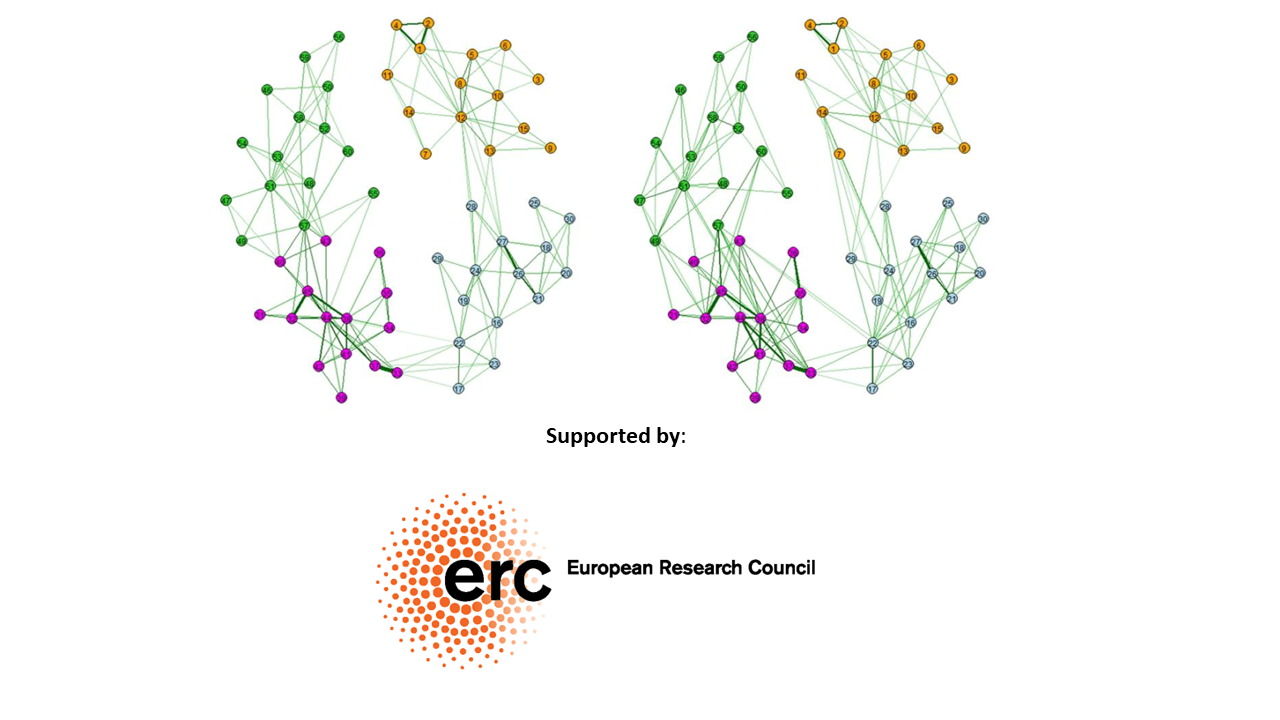
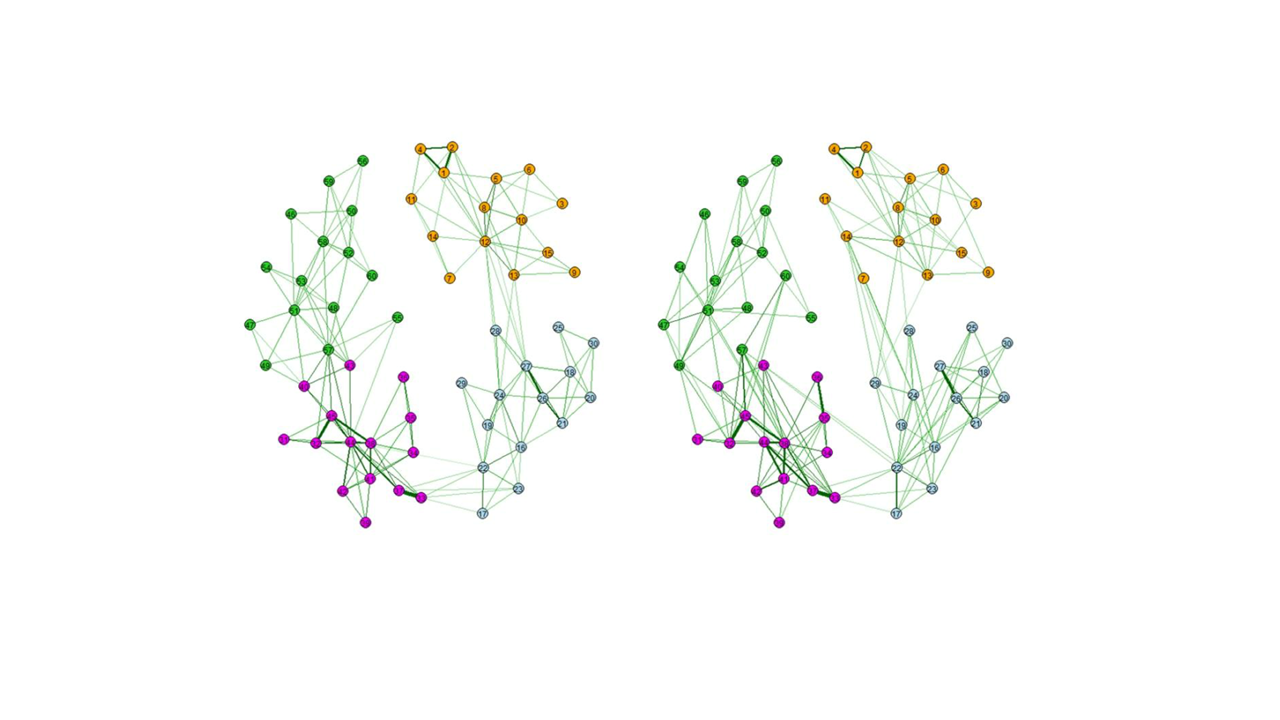
update images on homepage

Changed region(s): [[0.1562, 0.0306, 0.8125, 0.9167]]

diff --git a/content/home/erc.htm b/content/home/erc.htm
@@ -1,0 +1,299 @@
+<!DOCTYPE html>
+<html lang="en-US">
+    <head>
+    <title>ERC Consolidator grant for Reinier Boon</title>
+    <meta http-equiv="Content-Style-Type" content="text/css" />
+    <meta charset="utf-8">
+    <meta name="viewport" content="width=device-width, initial-scale=1">
+    <meta http-equiv="X-UA-Compatible" content="IE=edge">
+    <meta name="research_institute" content="Amsterdam Cardiovascular Sciences" />
+    <meta name="versionid" content="13367" />
+            <meta name="title_no_special_characters" content="ercconsolidatorgrantforreinierboon" />
+            <meta name="html_title_no_special_characters" content="ercconsolidatorgrantforreinierboon" />
+        <meta name="titleletter" content="E" />
+                    <meta name="dossier" content="prijs en geld" />
+    <meta name="publicationdate" content="2020-12-09T15:23:00Z" />
+<meta name="content_last_modified_date" content="2023-01-09T11:34:22Z" />
+    <!--
+        Powered by GX
+        GX Software
+        Nijmegen
+        http://www.gxsoftware.com/
+    -->
+    <meta name="title" content="ERC Consolidator grant for Reinier Boon" />
+<meta property="og:title" content="ERC Consolidator grant for Reinier Boon" />
+            <meta name="description" content="Amsterdam UMC Research Stories: Together we discover the healthcare of tomorrow." />
+            <meta property="og:description" content="Amsterdam UMC Research Stories: Together we discover the healthcare of tomorrow." />
+            <meta name="keywords" content="Research" />
+<meta name="image" content="https://www.amsterdamumc.org/upload_mm/f/8/4/cid13367_ERC.png" />
+<meta property="og:image" content="https://www.amsterdamumc.org/upload_mm/c/f/e/cid13367_ERC_1200x628.png" />
+<meta property="og:image:url" content="https://www.amsterdamumc.org/upload_mm/c/f/e/cid13367_ERC_1200x628.png" />
+<meta name="twitter:card" content="summary_large_image" />
+<meta name="twitter:site" content="@amsterdamumc" />
+<meta name="twitter:image" content="https://www.amsterdamumc.org/upload_mm/c/f/e/cid13367_ERC_1200x628.png" />
+<meta name="url" content="https://www.amsterdamumc.org/en/research/news/erc-consolidator-grant-for-reinier-boon.htm" />
+<meta property="og:url" content="https://www.amsterdamumc.org/en/research/news/erc-consolidator-grant-for-reinier-boon.htm" />
+<meta name="locale" content="en_US" />
+<meta property="og:locale" content="en_US" />
+    <meta name="generator" content="GX WebManager 9" />
+    <meta http-equiv="content-type" content="application/xhtml+xml;charset=utf-8" />
+    <meta http-equiv="content-language" content="en-US" />
+    <link size="16x16" rel="icon" type="image/png" href="/static/researchpresentation/images/favicon-16x16.png" />
+    <link size="32x32" rel="icon" type="image/png" href="/static/researchpresentation/images/favicon-32x32.png" />
+    <link rel="apple-touch-icon" type="image/png" href="/static/researchpresentation/images/apple-touch-icon.png" />
+    <link rel="canonical" href="https://www.amsterdamumc.org/en/research/institutes/amsterdam-cardiovascular-sciences/news/erc-consolidator-grant-for-reinier-boon.htm" />
+    <meta charset="utf-8"> <meta name="viewport" content="width=device-width, initial-scale=1.0, minimum-scale=1.0, maximum-scale=5.0">
+    <!-- Start FreeStyle -->
+    <!--  FreeStyle -->
+			    <link integrity="sha384-lIZrIo/lWpyELiMXw+WwcwvEYha8emxmZb+pjiOytxb4/e9gOfr7uuVIQcCHmY8w" crossorigin="anonymous" rel="stylesheet" type="text/css" href="/static/design/B30ACE0B-1950-4EF7-8312-58F9FA90FC7E-78D0-fsm/rel/stylesheet/general.css" />
+    <link integrity="sha384-VxXxYzFSAefoxXIhFaoKv465oo5XqIvqjcAAltaTMHPc6TkgiAMpQOJfCL6MWLTQ" crossorigin="anonymous" rel="stylesheet" type="text/css" href="/static/design/BBC18E55-1665-4AE8-BB30-44CB13D8063E-7402-fsm/rel/stylesheet/general.css" />
+    <!-- End FreeStyle -->
+            <script type="text/javascript" src="/static/researchpresentation/javascript/jquery-3.5.1.min.js"></script>
+        <script type="text/javascript" src="/static/researchpresentation/javascript/jquery-ui-1.13.2.min.js"></script>
+    <script type="text/javascript" src="/static/researchpresentation/javascript/amsterdamumc-1.20.0.js"></script>
+    <!-- Global site tag (gtag.js) - Google Analytics -->
+    <script async src="https://www.googletagmanager.com/gtag/js?id=UA-85366043-2"></script>
+    <script>
+        window.dataLayer = window.dataLayer || [];
+        function gtag() {
+            dataLayer.push(arguments);
+        }
+        gtag('js', new Date());
+        gtag('config', 'UA-85366043-2');
+    </script>
+</head>
+    <body >        
+        <!-- indexer: off -->
+        <div class="skiplinks">
+    <a href="#main" class="umc-button primary">Skip to content</a>
+</div>
+        <header>
+            <div id="menu-section" class="menu-section">
+    <div class="column-section menu">
+            <div class="column">
+                <button id="header-menu" class="menu-toggle">
+                    <span class="menu-toggle__label menu-toggle__label--menu">
+                        <span class="label--open">Menu</span>
+                        <span class="label--close">Menu</span>
+                    </span>
+                </button>
+                    <div class="menu-toggle menu-toggle--pillar">
+                        <span class="menu-toggle__switch-text--tablet-portrait">Research</span>
+                        <span class="menu-toggle__switch-text">Research</span>
+                    </div>
+            </div>
+            <div class="column">
+                <div class="umc-logo">
+                    <a href="https://www.amsterdamumc.org/en/research.htm">
+                        <img src="/static/researchpresentation/images/logo-amsterdamumc-english.svg" alt="Amsterdam UMC" />
+                    </a>
+                </div>
+            </div>
+            <div class="column">
+                
+                    <button id="header-search" class="menu-toggle">
+                        <span class="menu-toggle__label menu-toggle__label--search">
+                            <span class="label--open">Search</span>
+                            <span class="label--close">Search</span>
+                        </span>
+                    </button>
+            </div>
+    </div>
+    <div><nav class="section menu-navigation menu--closed menu-navigation--pillar">
+    <div class="column-section menu-navigation__title">
+        <h3>Amsterdam UMC Research</h3>
+    </div>
+    <div class="column-section menu-navigation__navigation">
+        <div class="column navigation navigation--double">
+			<ul><li><a href="/en/research/researchers.htm" class="" title="Researchers" data-wm-linkcode="C105">Connect with Researchers</a></li><li><a href="/en/research/highlights.htm" class="" title="Our research highlights" data-wm-linkcode="C106">Discover Research Highlights</a></li><li><a href="/en/research/core-facility.htm" class="" title="Core facilities" data-wm-linkcode="C107">Explore Core Facilities</a></li><li><a href="/en/research/institutes.htm" class="" title="Our research institutes" data-wm-linkcode="C108">Research Institutes</a></li><li><a href="/en/research/research-roadmap.htm" class="" title="Research Roadmap" data-wm-linkcode="C279">Research Roadmap</a></li><li><a href="/en/research/support.htm" class="" title="Research Support" data-wm-linkcode="C109">Our Research Support</a></li><li><a href="/en/research/organization.htm" class="" title="About Amsterdam UMC research" data-wm-linkcode="C110">About Amsterdam UMC Research</a></li><li><a href="/en/research/covid-file.htm" class="" title="COVID-19" data-wm-linkcode="C111">News COVID-19</a></li><li><a href="/en/phd-student.htm" class="" title="Doctoral school" data-wm-linkcode="C112">Doctoral School (PhD portal)</a></li><li><a href="/en/research/story.htm" class="" title="Research stories" data-wm-linkcode="C113">Stories</a></li><li><a href="/en/research/events.htm" class="" title="Events" data-wm-linkcode="C114">Events</a></li></ul>
+        </div>
+        <div class="column navigation navigation--locations">
+			<h4>Location AMC</h4><ul><li><a href="https://www.amc.nl/web/research/departments.htm" class="" title="https://www.amc.nl/web/research/departments.htm" data-wm-linkcode="C115">Departments</a></li><li><a href="https://www.amc.nl/web/leren/research-62/trials-collaborations.htm" class="" title="https://www.amc.nl/web/leren/research-62/trials-collaborations.htm" data-wm-linkcode="C116">Trials and Collaborations</a></li><li><h4>Location VUmc</h4></li></ul><p><a href="https://www.vumc.com/departments.htm" class="" title="https://www.vumc.com/departments.htm" data-wm-linkcode="C120">Departments</a></p>
+        </div>
+    </div>
+    <div class="column-section menu-navigation__channels">
+		<h6>Other Amsterdam UMC Channels</h6><ul><li>        <button class="menu-navigation__dropdown" aria-haspopup="listbox">Amsterdam UMC Healthcare</button>
+        <ul class="menu-navigation__dropdown-content" role="listbox" aria-expanded="false" aria-label="Amsterdam UMC Healthcare">
+            <li role="presentation"><a href="https://www.amc.nl/web/home.htm" class="normal" title="https://www.amc.nl/web/home.htm" data-wm-linkcode="C275">Location AMC</a></li>
+            <li role="presentation"><a href="https://vumc.com/patient-care.htm" class="normal" title="https://vumc.com/patient-care.htm" data-wm-linkcode="C276">Location VUmc</a></li>
+        </ul></li><li><a href="/en.htm" class="" title="Amsterdam UMC" data-wm-linkcode="C118">Amsterdam UMC Corporate</a></li><li>        <button class="menu-navigation__dropdown" aria-haspopup="listbox">Amsterdam UMC Education</button>
+        <ul class="menu-navigation__dropdown-content" role="listbox" aria-expanded="false" aria-label="Amsterdam UMC Education">
+            <li role="presentation"> <a href="https://vumc.com/education.htm" class="normal" title="https://vumc.com/education.htm" data-wm-linkcode="C278">Location VUmc</a></li>
+            <li role="presentation"><a href="https://www.amc.nl/web/leren.htm" class="normal" title="https://www.amc.nl/web/leren.htm" data-wm-linkcode="C277">Location AMC</a></li>
+        </ul><p></p></li><li><a href="https://werkenbij.amsterdamumc.org/en" class="" title="https://werkenbij.amsterdamumc.org/en" data-wm-linkcode="C119">Careers Amsterdam UMC</a></li></ul>
+    </div>
+</nav></div>
+        <div class="section menu-search menu--closed">
+            <div class="column-section">
+                <div class="column">
+                    <div class="search-input">
+                        <form action="/en/search-results.htm">
+                            <div class="search-input__input">
+                                <input id="queryheader-search" name="searchTerms" type="search" placeholder="Keyword" value="" aria-label="Search" />
+                                        <div class="fssearchinfo"
+                                            data-useautocompletion="true"
+                                            data-fsinitautocompletion="header-search"
+                                            data-fsautocompleteurl="/en/research/news.htm?cachetimeout=-1&amp;elementId=430886&amp;presentationid=116293"
+                                            data-fsautocompletechars="3">
+                            </div>
+                            <button class="search-input__clear" aria-label="Clear search input" type="button"></button>
+                            <button class="umc-button primary" type="submit"><span>Search</span></button>
+                        </form>
+                    </div>
+                </div>
+            </div>
+        </div>
+</div>
+        </header>
+        <main class="umc-article" id="main">
+            
+                <div class="section-container content-header-container">
+                    <div class="column-section content-header">
+                            <nav class="column breadcrumbs" aria-label="Breadcrumbs">
+    <ul class="navigation-list--back">
+                        <li><a href="/en/research/news.htm">News</a></li>
+    </ul>
+</nav>
+                    </div>
+                </div>
+                <div class="section-container hero-container">
+                    <div class="column-section hero-section">
+                                    <div class="column hero-image">
+                                        <figure>
+                                            <picture>
+                                                <source media="(min-width: 90rem)" srcset="/upload_mm/4/e/f/cid13367_ERC_1442x618.png">
+                                                <source media="(min-width: 64rem)" srcset="/upload_mm/0/c/8/cid13367_ERC_1204x516.png">
+                                                <source media="(min-width: 48rem)" srcset="/upload_mm/3/2/c/cid13367_ERC_1029x441.png">
+                                                <img src="/upload_mm/b/d/b/cid13367_ERC_756x324.png" alt="" />
+                                            </picture>
+                                        </figure>
+                                    </div>
+                    </div>
+                </div>
+                    <div class="section-container main-container">
+                        <div class="column-section main-section">
+                                <div class="main-content-header">
+            <span class="publication-date">December 9, 2020</span>
+            <h1 class="title" title="ERC Consolidator grant for Reinier Boon" size="large">ERC Consolidator grant for Reinier Boon</h1>
+</div>
+                            <div class="main-content">
+    <!-- indexer: on -->
+            <article class="content">
+                        <div class="content-wrapper"><div>
+   <div class="intro-style">Reinier Boon, Professor Molecular Cardiovascular Ageing, receives the ERC Consolidator grant for his research into heart failure in the elderly. </div>
+</div><p data-wm-forced-paragraph="true">Life expectancy in the European Union is rising and the prevalence of age-induced cardiovascular disease increases concomitantly. The main clinical presentation of age-induced cardiovascular disease is heart failure with preserved ejection fraction (HFpEF). HFpEF is a complex disease involving different cell types and mechanisms that contribute to impaired relaxation of cardiomyocytes. Currently there is no appropriate treatment for HFpEF. His proposal, entitled "Non-coding RNA and Intercellular Communication in Cardiac Aging" aims to better understand the molecular mechanisms behind intercellular communication and ageing that lead to HFpEF.&nbsp;His research focuses specifically on the role of the gene Sarrah and other so-called non-protein coding genes (lncRNAs), since these genes play a role in cardiac aging. </p><p>The&nbsp;<a href="https://erc.europa.eu/funding/consolidator-grants" rel="noopener noreferrer" onclick="this.target='_blank';" class="link--out" title="https://erc.europa.eu/funding/consolidator-grants" data-wm-linkcode="C03">ERC Consolidator Grant</a>&nbsp;is one of the largest research grants in Europe for researchers who want to further expand a research group.&nbsp;This year, 327 top scientists throughout Europe received a total of&nbsp;<a href="https://erc.europa.eu/news/CoG-recipients-2020" rel="noopener noreferrer" onclick="this.target='_blank';" class="link--out" title="https://erc.europa.eu/news/CoG-recipients-2020" data-wm-linkcode="C04">€655 million</a>.</p><div>
+   <div class="content-columns-all">
+           <div class="column ">    <div class="image ">
+                    <img src="/upload/e061d7b3-70af-4482-86f7-00f90d915d54_Boon%20Reinier.jpg" alt="Reinier Boon" />
+            <em>Reinier Boon</em>
+    </div></div>
+           <div class="column "></div>
+   </div>
+</div></div>
+            </article>
+    <!-- indexer: off -->
+        <aside>
+                        <div class="content-sidebar">
+                            <div class="share-list">
+        <p class="list-header">Share this</p>
+        <ul>
+            <li>
+                <a href="https://www.twitter.com/intent/tweet?text=https://www.amsterdamumc.org/en/research/institutes/amsterdam-cardiovascular-sciences/news/erc-consolidator-grant-for-reinier-boon.htm" target="_blank" class="umc-button twitter" aria-label="Share on Twitter"></a>
+            </li>
+            <li>
+                <a href="https://www.facebook.com/sharer/sharer.php?u=https://www.amsterdamumc.org/en/research/institutes/amsterdam-cardiovascular-sciences/news/erc-consolidator-grant-for-reinier-boon.htm&amp;t=ERC Consolidator grant for Reinier Boon" target="_blank" class="umc-button facebook" aria-label="Share on Facebook"></a>
+            </li>
+            <li>
+                <a href="https://www.linkedin.com/shareArticle?url=https://www.amsterdamumc.org/en/research/institutes/amsterdam-cardiovascular-sciences/news/erc-consolidator-grant-for-reinier-boon.htm&amp;title=ERC Consolidator grant for Reinier Boon" target="_blank" class="umc-button linkedin" aria-label="Share on LinkedIn"></a>
+            </li>
+            <li>
+                <a href="mailto:?subject=ERC Consolidator grant for Reinier Boon&amp;body=https://www.amsterdamumc.org/en/research/institutes/amsterdam-cardiovascular-sciences/news/erc-consolidator-grant-for-reinier-boon.htm" class="umc-button share" aria-label="Share via e-mail"></a>
+            </li>
+        </ul>
+    </div>
+                                    <nav class="sidebar-list" aria-label="Sidebar"><p class="list-header">Researchers</p>
+                        <ul>
+                                    <li><a href="/en/research/researchers/reinier-boon.htm" >Reinier Boon</a></li>
+                        </ul>
+                        <p class="list-header">Research Institutes</p>
+                        <ul>
+                                    <li><a href="/en/research/institutes/amsterdam-cardiovascular-sciences.htm" >Amsterdam Cardiovascular Sciences</a></li>
+                        </ul>
+                        <p class="list-header">Research Programs</p>
+                        <ul>
+                                    <li><a href="/en/research/institutes/amsterdam-cardiovascular-sciences/programs/microcirculation.htm" >Microcirculation</a></li>
+                        </ul></nav>
+                        </div>
+        </aside>
+</div>
+                                <!-- indexer: on -->
+                                <!-- indexer: off -->
+                        </div>
+                    </div>
+        </main>
+        <!-- indexer: off -->
+        <footer>
+            <div class="section footer-connected">
+                
+            </div>
+            <div class="section footer-links">
+                <div><div>
+   <nav class="column-section">
+           <div class="column footer-logo">    <div class="image ">
+        <a href="/en/research.htm" class="normal" title="Research" data-wm-linkcode="C11">
+                    <img src="/upload/4f8a61c7-d920-4898-abf7-a5bbddc3676c_logo-amsterdamumc-white.svg" alt="" />
+        </a>
+    </div></div>
+           <div class="column footer-nav-links">    <ul>
+                    <li><a href="/en/research/highlights.htm" class="normal" title="Our research highlights" data-wm-linkcode="C01">Research highlights</a></li>
+                    <li><a href="/en/research/core-facility.htm" class="normal" title="Core facilities" data-wm-linkcode="C02">Core facilities</a></li>
+                    <li><a href="/en/research/researchers.htm" class="normal" title="Researchers" data-wm-linkcode="C04">Researchers</a></li>
+                    <li><a href="/en/research/research-roadmap.htm" class="normal" title="Research Roadmap" data-wm-linkcode="C14">Research Roadmap</a></li>
+                    <li><a href="/en/research/story.htm" class="normal" title="Research stories" data-wm-linkcode="C03">Stories</a></li>
+                    <li><a href="/en/phd-student.htm" class="normal" title="Doctoral school" data-wm-linkcode="C05">Doctoral school</a></li>
+    </ul></div>
+           <div class="column footer-nav-links">    <ul>
+                    <li><a href="/en/research/events.htm" class="normal" title="Events" data-wm-linkcode="C06">Events</a></li>
+                    <li><a href="/en/research/institutes.htm" class="normal" title="Our research institutes" data-wm-linkcode="C07">Research institutes</a></li>
+                    <li><a href="/en/research/support.htm" class="normal" title="Research Support" data-wm-linkcode="C15">Research support</a></li>
+                    <li><a href="/nl/organisatie/contact.htm" class="normal" title="Contact" data-wm-linkcode="C13">Contact</a></li>
+                    <li><a href="/en/research/organization.htm" class="normal" title="About Amsterdam UMC research" data-wm-linkcode="C10">About Amsterdam UMC</a></li>
+    </ul></div>
+   </nav>
+</div></div>
+            </div>
+            <div class="section footer-colofon">
+                    <nav class="column-section" aria-label="colofon">
+        <div class="column footer-meta-links">
+            <ul>
+                    <li><a href="/en/accessibility-statement.htm">Accessibility statement</a></li>
+                    <li><a href="/en/disclaimer.htm">Disclaimer</a></li>
+                    <li><a href="/en/responsible-disclosure.htm">Responsible disclosure</a></li>
+                    <li><a href="/en/privacy-statement-of-amsterdam-umc.htm">Privacy statement of Amsterdam UMC</a></li>
+                    <li><a href="/en/credits.htm">Credits</a></li>
+            </ul>
+        </div>
+    <div class="column footer-socials">
+        <div>    <ul class="navigation-list">
+                            <li>
+                                <a href="https://www.facebook.com/amsterdamumc.nl/" target="_blank" class="facebook" aria-label="Facebook"></a>
+                            </li>
+                            <li>
+                                <a href="https://www.linkedin.com/company/amsterdamumc/" target="_blank" class="linkedin" aria-label="LinkedIn"></a>
+                            </li>
+                            <li>
+                                <a href="https://www.instagram.com/amsterdamumc/" target="_blank" class="instagram" aria-label="Instagram"></a>
+                            </li>
+                            <li>
+                                <a href="https://twitter.com/amsterdamumc" target="_blank" class="twitter" aria-label="Twitter"></a>
+                            </li>
+    </ul></div>
+    </div>
+</nav>
+            </div>
+        </footer>
+        <!-- Start FreeStyle --> 
+        <script integrity="sha384-dtATkC/XLHhQTN7liQeimhg5VzxBC5XUQuFTZjvKkj4FfFHTkJaAzKpClPC5UT0c" crossorigin="anonymous" src="/static/design/B30ACE0B-1950-4EF7-8312-58F9FA90FC7E-78D0-fsm/js/site.js"></script> 
+        <!-- End FreeStyle --> 
+    </body>
+</html>

diff --git a/content/home/welcome.md b/content/home/welcome.md
@@ -21,4 +21,4 @@ design:
 
 <br>
 
-![alt text](welcome.png){width: 200px;}
+![alt text-1](erc.png) ![alt-text-2](abc.png)
